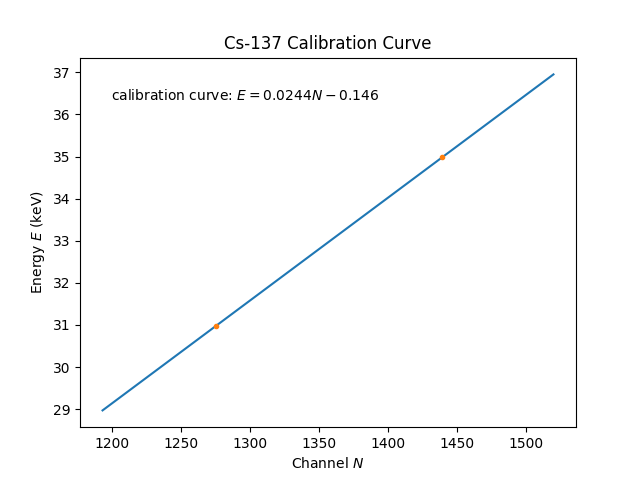
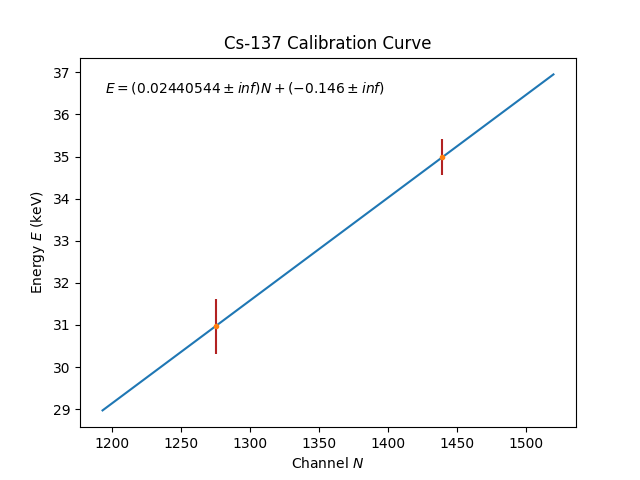
include error analysis for radioactive source calibration

Changed region(s): [[0.1562, 0.1562, 0.5938, 0.2188]]

diff --git a/src/xrf/calib.py b/src/xrf/calib.py
@@ -11,9 +11,9 @@ from pathlib import Path
 from typing import Tuple, List, Callable
 
 import numpy as np
-import pandas as pd
 import matplotlib.pyplot as plt
 from scipy.optimize import curve_fit
+from scipy.stats import chisquare
 
 
 def gaussian(x: np.ndarray, height: float, centre: float, std: float):
@@ -22,14 +22,6 @@ def gaussian(x: np.ndarray, height: float, centre: float, std: float):
 
 def line(x: np.ndarray, slope: float, intercept: float):
     return slope * x + intercept
-
-
-def fit_points(
-    x_data: np.ndarray, y_data: np.ndarray, func: Callable, guess: List[float]
-) -> Tuple[np.ndarray, np.ndarray]:
-    fitted, err_cov = curve_fit(func, x_data, y_data, p0=guess)
-
-    return fitted, err_cov
 
 
 def read_data(filename: Path) -> np.ndarray:
@@ -85,11 +77,11 @@ def fit_peak(
     Returns:
         (array, 2D array): Fit parameters and error covariance of fit.
     """
-    peak_fit, fit_err = fit_points(
+    peak_fit, fit_err = curve_fit(
+        gaussian,
         channels[first_channel:last_channel],
         counts[first_channel:last_channel],
-        gaussian,
-        guess,
+        p0=guess,
     )
     scale = last_channel - first_channel
     peak_fit_x = np.arange(first_channel - scale / 10, last_channel - scale / 10)
@@ -126,13 +118,15 @@ def fit_peak(
 
 def calib_curve(
     peak_centres: np.ndarray,
+    peak_centre_errs: np.ndarray,
     energies: np.ndarray,
     guess: List[float],
     sample: str,
     save_fig: bool = False,
     path_save: Path = None,
 ) -> Tuple[np.ndarray, np.ndarray]:
-    """Produce a calibration curve given peak locations and test known energies from literature.
+    """Produce a calibration curve given peak locations and test known energies
+    from literature.
 
     Args:
         peak_centres (np.ndarray[float]): Locations of peaks (centre channel).
@@ -143,31 +137,44 @@ def calib_curve(
         path_save (Path, optional): Path to save output plot. Defaults to None.
 
     Returns:
-        (array, 2D array): Linear fit parameters and error covariance of fit.
+        Tuple[np.ndarray, np.ndarray]: Linear fit parameters and uncertainties
+            on fit parameters.
     """
-    calib_fit, calib_err = fit_points(peak_centres, energies, line, guess)
+    calib_fit, calib_err = curve_fit(
+        line, peak_centres, energies, p0=guess, sigma=peak_centre_errs,
+    )
     channel_range = int(max(peak_centres) - min(peak_centres))
     fit_x = np.arange(
         int(min(peak_centres) - channel_range / 2),
         int(max(peak_centres) + channel_range / 2),
     )
     fit_y = line(fit_x, calib_fit[0], calib_fit[1])
+
+    expected_y = line(peak_centres, calib_fit[0], calib_fit[1])
+    chisq_fit, p_fit = chisquare(energies, expected_y, ddof=len(calib_fit))
+    calib_params_err = np.diag(calib_err) * max(1, np.sqrt(chisq_fit))
+
     plt.figure()
     plt.plot(fit_x, fit_y)
+    plt.errorbar(peak_centres, energies, peak_centre_errs, fmt="none", ecolor="firebrick")
     plt.plot(peak_centres, energies, ".")
     plt.title(sample + " Calibration Curve")
     plt.xlabel("Channel $N$")
     plt.ylabel("Energy $E$ (keV)")
     plt.text(
-        245,
-        385,
-        "calibration curve: $E="
-        + str(round(calib_fit[0], 4))
-        + "N"
-        + str(round(calib_fit[1], 3))
-        + "$",
-        ha="center",
-        va="center",
+        105,
+        400,
+        "$E = ("
+        + str(round(calib_fit[0], 8))
+        + " \pm "
+        + str(round(calib_params_err[0], 8))
+        + ") N + ("
+        + str(round(calib_fit[1], 4))
+        + " \pm "
+        + str(round(calib_params_err[1], 4))
+        + ")$",
+        ha="left",
+        va="top",
         transform=None,
     )
     if save_fig:
@@ -176,4 +183,4 @@ def calib_curve(
     else:
         plt.show()
 
-    return calib_fit, calib_err
+    return calib_fit, calib_params_err

diff --git a/src/calibration.py b/src/calibration.py
@@ -9,9 +9,7 @@ Author: Shiqi Xu
 from pathlib import Path
 
 import numpy as np
-import pandas as pd
 import matplotlib.pyplot as plt
-from scipy.optimize import curve_fit
 
 from xrf import calib
 
@@ -24,6 +22,7 @@ mode = ["default", "high_rate"]
 
 data_path = Path.cwd() / "data"
 fig_path = Path.cwd() / "outputs" / "calib_radioactive"
+# fig_path = Path.cwd() / "outputs" / "calib2_radioactive"
 
 SDD_channels = np.arange(0, 2048)
 
@@ -31,6 +30,7 @@ if "default" in mode:
     # region: calibration of FastSDD Default PX5 setting
     pb210_data = calib.read_data(data_path / "20220330_pb210_run1.csv")
     pb210_peak_centres = []
+    pb210_peak_centre_errs = []
 
     pb210_peak1_fit, pb210_peak1_err = calib.fit_peak(
         SDD_channels,
@@ -43,6 +43,7 @@ if "default" in mode:
         path_save = fig_path / "20220330_pb210_peak1_fit.png",
     )
     pb210_peak_centres.append(pb210_peak1_fit[1])
+    pb210_peak_centre_errs.append(np.sqrt(pb210_peak1_err[1, 1]))
 
     pb210_peak2_fit, pb210_peak2_err = calib.fit_peak(
         SDD_channels,
@@ -55,6 +56,7 @@ if "default" in mode:
         path_save = fig_path / "20220330_pb210_peak2_fit.png",
     )
     pb210_peak_centres.append(pb210_peak2_fit[1])
+    pb210_peak_centre_errs.append(np.sqrt(pb210_peak2_err[1, 1]))
 
     pb210_peak3_fit, pb210_peak3_err = calib.fit_peak(
         SDD_channels,
@@ -67,6 +69,7 @@ if "default" in mode:
         path_save = fig_path / "20220330_pb210_peak3_fit.png",
     )
     pb210_peak_centres.append(pb210_peak3_fit[1])
+    pb210_peak_centre_errs.append(np.sqrt(pb210_peak3_err[1, 1]))
 
     pb210_peak4_fit, pb210_peak4_err = calib.fit_peak(
         SDD_channels,
@@ -79,10 +82,16 @@ if "default" in mode:
         path_save = fig_path / "20220330_pb210_peak4_fit.png",
     )
     pb210_peak_centres.append(pb210_peak4_fit[1])
+    pb210_peak_centre_errs.append(np.sqrt(pb210_peak4_err[1, 1]))
+
+    pb210_peak_centres = np.array(pb210_peak_centres)
+    pb210_peak_centre_errs = np.array(pb210_peak_centre_errs)
 
     pb210_calib_fit, pb210_calib_err = calib.calib_curve(
         pb210_peak_centres,
-        [10.555, 12.305, 12.618, 15.222],
+        pb210_peak_centre_errs,
+        [10.555, 12.305, 12.618, 15.222],  # trial 1, saved under /outputs/calib_radioactive/
+        # [],  # trial 2, saved under /outputs/calib2_radioactive/
         [0, 0],
         "Pb-210",
         save_fig = True,
@@ -104,6 +113,7 @@ if "high_rate" in mode:
     # region: calibration of FastSDD High Rate PX5 setting
     cs137_data = calib.read_data(data_path / "20220331_cs137_high_rate.csv")
     cs137_peak_centres = []
+    cs137_peak_centre_errs = []
 
     cs137_peak1_fit, cs137_peak1_err = calib.fit_peak(
         SDD_channels,
@@ -116,6 +126,7 @@ if "high_rate" in mode:
         path_save = fig_path / "20220331_cs137_high_rate_peak1_fit.png",
     )
     cs137_peak_centres.append(cs137_peak1_fit[1])
+    cs137_peak_centre_errs.append(np.sqrt(cs137_peak1_err[1, 1]))
 
     cs137_peak2_fit, cs137_peak2_err = calib.fit_peak(
         SDD_channels,
@@ -128,10 +139,16 @@ if "high_rate" in mode:
         path_save = fig_path / "20220331_cs137_high_rate_peak2_fit.png",
     )
     cs137_peak_centres.append(cs137_peak2_fit[1])
+    cs137_peak_centre_errs.append(np.sqrt(cs137_peak2_err[1, 1]))
+
+    cs137_peak_centres = np.array(cs137_peak_centres)
+    cs137_peak_centre_errs = np.array(cs137_peak_centre_errs)
 
     cs137_calib_fit, cs137_calib_err = calib.calib_curve(
         cs137_peak_centres,
-        [30.973, 34.985],
+        cs137_peak_centre_errs,
+        [30.973, 34.985],  # trial 1, saved under /outputs/calib_radioactive/
+        # [30.973, 34.918],  # trial 2, saved under /outputs/calib2_radioactive/
         [0, 0],
         "Cs-137",
         save_fig = True,
